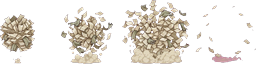
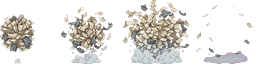
The dust is grey now, and an old roll was quietly winning
Jeremy redrew `uncovered` with pale grey dust. Zero pink on all four frames,
where frame 4 had 57 rose pixels before.

The part worth keeping is why the fix appeared not to take. The replacement was
dropped in beside the original, which had been renamed `uncovered (haze).jpg`,
and `nameForm` strips a parenthetical to get the id -- a re-roll tag means "the
same picture, generated again" and must collapse onto the base name, with
`VARIANTS` as the explicit list of notes that mean a genuinely different
picture. So both files claimed `effects/uncovered.png` and the old one won.
Rebuilding changed nothing. Forcing a rebuild changed nothing either, because
it rebuilt the same wrong source, which is how this survived three attempts at
diagnosing it.

**An old roll kept next to its replacement is not inert.** It is a second
candidate for the same output and the winner is directory-walk order. Moved to
`art_src/unused/`, which is what that folder is for, and filed in DESIGN_QUEUE
with the cheap fix: when two sources collapse to one id and neither carries a
known variant note, say so.

Also corrects my own diagnosis of the original smear. I called it "the
documented hazard in reverse" -- pink surviving the key because it was too far
from #FF00FF. It was simpler than that: the art had a pink shape drawn in it,
and the file I kept measuring was built from the old roll.

Only `uncovered.png` ships here. A `--force` pass also rewrote three unrelated
[…]

diff --git a/SPIES_PLAN.md b/SPIES_PLAN.md
@@ -480,18 +480,26 @@ pipeline expects an attack strip for every creature. Spies do not attack, so
 there will never be one, and the four lines under *Art unusable* are the
 pipeline noticing a thing that is true on purpose.
 
-### One flaw worth a re-roll
+### The re-roll, and the trap that hid it
 
-`uncovered` frame 4 carries **57 unkeyed pink pixels** — a dusty rose smear
-along the ground, values around `(216,159,173)`. That is the documented hazard
-in reverse: the warning says no magenta, hot pink or violet in the effect
-because it *will* be keyed out, and this shade is far enough from `#FF00FF`
-that it was not, so instead of vanishing it stayed. On screen it reads as a
-pink smudge appearing under the unit as the effect fades.
+`uncovered` first came through with a dusty rose smear along the ground in
+frame 4 — 57 pixels at about `(216,159,173)`. Redrawn with pale grey dust, and
+clean now: **zero** on all four frames.
 
-The other three frames are clean. For a re-roll, add to the prompt: **no pink,
-rose or mauve anywhere in the effect, including the dust — the dust is pale
-grey.**
+What is worth recording is why the fix appeared not to take. The re-roll was
+dropped in beside the original, which had been renamed `uncovered (haze).jpg`,
+and the pipeline reads a parenthetical as a **re-roll tag** — `nameForm` strips
+`(...)` to get the id, on the reasoning that "the same picture, generated
+again" must collapse onto the base name. So both files claimed
+`effects/uncovered.png`, and the old one won. Forcing a rebuild changed
+nothing, because forcing a rebuild rebuilt the same wrong source.
+
+**So an old roll kept next to its replacement is not inert.** It is a second
+candidate for the same output, and which one wins is a directory-walk order
+nobody chose. The old one is in `art_src/unused/` now, which is what that
+folder is for. The `(variant)` convention is the exception and it is explicit:
+`VARIANTS` lists the notes that mean "a genuinely different picture of the same
+creature", and anything not in that list is treated as a re-roll.
 
 **A disguised spy needs no art of its own while it is disguised** — it is drawn
 as whatever it is pretending to be, and both an ordinary unit of yours and an

diff --git a/DESIGN_QUEUE.md b/DESIGN_QUEUE.md
@@ -11253,3 +11253,21 @@ seventeenth for every caste anybody adds.
 The fix is in the faction-folder walk: a name ending in a state word
 (`weakened`, and whatever else `unit states/` recognises -- there is a table of
 them around line 1428) is a state sheet and is never a creature id of its own.
+
+## An old roll kept beside its replacement silently wins
+
+Cost an hour in section 136 and will cost it again. `nameForm` in
+`prepare_art.py` strips a parenthetical from a filename to get the id, because
+a re-roll tag means "the same picture, generated again" and must collapse onto
+the base name. `VARIANTS` is the explicit exception list for notes that mean a
+genuinely different picture.
+
+So `uncovered (haze).jpg` and `uncovered.jpg` sitting in the same folder are
+**two candidates for one output**, and which wins is directory-walk order. The
+replacement was dropped in, the old one renamed rather than moved, and every
+rebuild -- including `--force` -- confidently regenerated the wrong source.
+Nothing warned, because from the pipeline's point of view nothing was wrong.
+
+Cheap fix worth making: when two source files collapse to the same id and
+neither carries a known `VARIANTS` note, say so. One line of output would have
+turned an hour into ten seconds. `art_src/unused/` is where the loser belongs.
